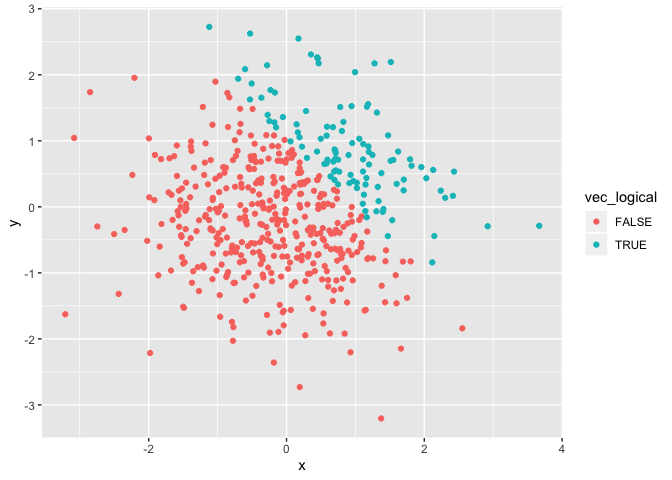
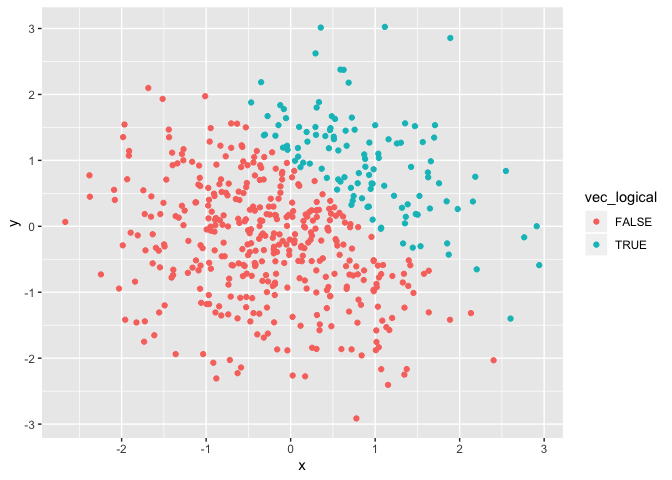
created proportion statement and now lots of images and scatterplots

diff --git a/p8105_hw1_kzw2102.md b/p8105_hw1_kzw2102.md
@@ -33,13 +33,13 @@ levels=pull(problem1_df, var=vec_factor)
 mean(number)
 ```
 
-    ## [1] -0.6722893
+    ## [1] -0.4290173
 
 ``` r
 mean(overzero)
 ```
 
-    ## [1] 0.375
+    ## [1] 0.25
 
 ``` r
 mean(characters)
@@ -82,8 +82,8 @@ c=number*as.numeric(overzero)
 c
 ```
 
-    ## [1] 0.0000000 0.0000000 0.0000000 0.0000000 0.0000000 0.6685766 0.6685337
-    ## [8] 0.5763231
+    ## [1] 0.0000000 0.0000000 0.0000000 0.0000000 0.0000000 0.1920410 0.8772674
+    ## [8] 0.0000000
 
 ``` r
 #convert the logical vector to a factor, and multiple the random sample by the result
@@ -105,8 +105,8 @@ b=number*as.numeric(as.factor(overzero))
 b
 ```
 
-    ## [1] -1.6819644 -1.0521948 -2.6801159 -1.5306211 -0.3468515  1.3371532
-    ## [7]  1.3370674  1.1526462
+    ## [1] -1.1695743 -0.1568282 -1.6512598 -0.5539143 -0.2772862  0.3840820
+    ## [7]  1.7545347 -0.6925842
 
 # Problem 2
 
@@ -125,11 +125,10 @@ problem2_df=tibble(
 In this data set, there are 500 rows (or number of subjects) and 5
 columns, each denoting a different kind of variable.
 
-The mean of of our sample is -0.0415804, the median is -0.040728, and
-the standard deviation is 1.0092722.
+The mean of of our sample is -0.0203758, the median is -0.0464534, and
+the standard deviation is 0.9855201.
 
-The proportion of cases for which x+y\>1 is `sum(pull(problem2_df,
-numeric1)/nrow(problem2_df)`.
+The proportion of cases for which x+y\>1 is 0.228.
 
 ## scatterplots
 
